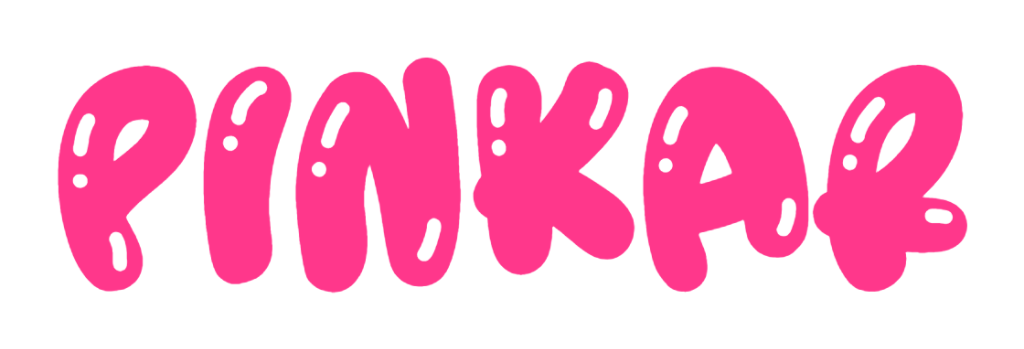
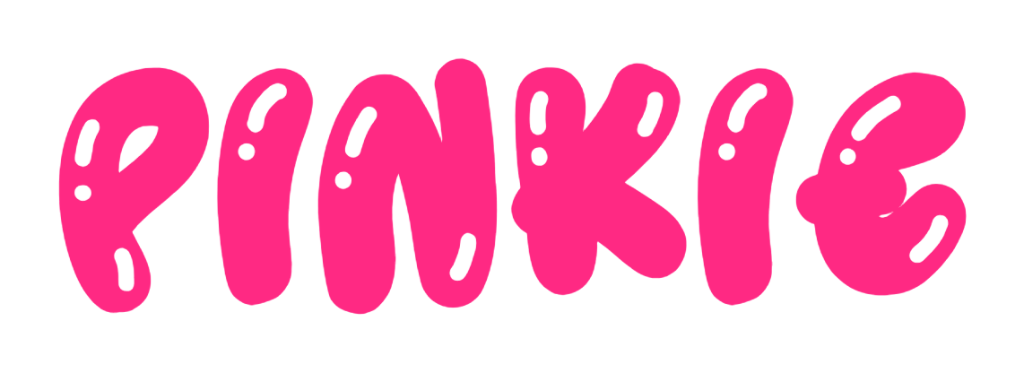
1

diff --git a/index.html b/index.html
@@ -3,11 +3,11 @@
 <head>
     <meta charset="utf-8"/>
     <meta http-equiv="Content-Type" content="text/html; charset=utf-8"/>
-    <meta name="viewport" content="width=device-width, initial-scale=1.0"/> <!--metatextblock--> <title>$PINKAR</title>
-    <meta name="description" content="$PINKAR"/>
+    <meta name="viewport" content="width=device-width, initial-scale=1.0"/> <!--metatextblock--> <title>$PINKIE</title>
+    <meta name="description" content="$PINKIE"/>
     <meta property="og:url" content="#"/>
-    <meta property="og:title" content="$PINKAR"/>
-    <meta property="og:description" content="$PINKAR"/>
+    <meta property="og:title" content="$PINKIE"/>
+    <meta property="og:description" content="$PINKIE"/>
     <meta property="og:type" content="website"/>
     <link rel="canonical" href="#"> <!--/metatextblock-->
     <meta name="format-detection" content="telephone=no"/>
@@ -134,7 +134,7 @@ document.addEventListener('DOMContentLoaded',t_setvisRecs);}})();
                      data-animate-sbs-opts="[{'ti':0,'mx':0,'my':0,'sx':1,'sy':1,'op':1,'ro':0,'bl':'0','ea':'','dt':0},{'ti':0,'mx':0,'my':0,'sx':1,'sy':1,'op':0,'ro':0,'bl':'0','ea':'','dt':0},{'ti':0,'mx':0,'my':0,'sx':1,'sy':1,'op':1,'ro':0,'bl':'0','ea':'','dt':0}]"
                      data-field-top-res-320-value="12" data-field-left-res-320-value="-24"
                      data-field-height-res-320-value="35" data-field-width-res-320-value="363">
-                    <div class='tn-atom'>CA - oCvzCdukjTATZQy1frHVsToh1tXPSfbT4WXth6Jpump</div>
+                    <div class='tn-atom'>CA - bcd5ov8pFY1VB2dGN72dZjuEgwzmz4AW2M4nFSkpump</div>
                 </div>
             </div>
         </div>
@@ -213,7 +213,7 @@ document.addEventListener('DOMContentLoaded',t_setvisRecs);}})();
                      data-animate-sbs-opts="[{'mx':0,'my':0,'sx':1,'sy':1,'op':1,'ro':0,'ti':0,'ea':'0','dt':0},{'mx':6,'my':2,'sx':1,'sy':1,'op':1,'ro':0,'ti':300,'ea':'0','dt':0}]"
                      data-field-filewidth-value="121" data-field-fileheight-value="309"
                      data-field-top-res-320-value="280" data-field-left-res-320-value="271"
-                     data-field-width-res-320-value="49"><a class='tn-atom' href="https://t.me/pinkarclub"> <img
+                     data-field-width-res-320-value="49"><a class='tn-atom' href="https://t.me/pinkiesolana"> <img
                         class='tn-atom__img t-img'
                         data-original='https://static.tildacdn.one/tild3038-3439-4363-b061-386666626138/__-07.svg'
                         alt='' imgfield='tn_img_1727151381364'/> </a></div>
@@ -227,7 +227,7 @@ document.addEventListener('DOMContentLoaded',t_setvisRecs);}})();
                      data-field-filewidth-value="159" data-field-fileheight-value="280"
                      data-field-top-res-320-value="292" data-field-left-res-320-value="68"
                      data-field-width-res-320-value="64"><a class='tn-atom'
-                                                            href="https://pump.fun/oCvzCdukjTATZQy1frHVsToh1tXPSfbT4WXth6Jpump"
+                                                            href="https://pump.fun/bcd5ov8pFY1VB2dGN72dZjuEgwzmz4AW2M4nFSkpump"
                                                             target="_blank"> <img class='tn-atom__img t-img'
                                                                                   data-original='./static.tildacdn.one/tild3337-3130-4366-a263-376566303136/__-04.svg'
                                                                                   alt=''
@@ -258,7 +258,7 @@ document.addEventListener('DOMContentLoaded',t_setvisRecs);}})();
                      data-animate-sbs-opts="[{'mx':0,'my':0,'sx':1,'sy':1,'op':1,'ro':0,'ti':0,'ea':'0','dt':0},{'mx':6,'my':2,'sx':1,'sy':1,'op':1,'ro':0,'ti':300,'ea':'0','dt':0}]"
                      data-field-filewidth-value="135" data-field-fileheight-value="356"
                      data-field-top-res-320-value="259" data-field-left-res-320-value="200"
-                     data-field-width-res-320-value="55"><a class='tn-atom' href="https://x.com/pinkarclub"
+                     data-field-width-res-320-value="55"><a class='tn-atom' href="https://x.com/pinkiesolana"
                                                             target="_blank"> <img class='tn-atom__img t-img'
                                                                                   data-original='https://static.tildacdn.one/tild3436-6139-4662-b933-303162633764/__-06.svg'
                                                                                   alt=''
@@ -282,16 +282,16 @@ document.addEventListener('DOMContentLoaded',t_setvisRecs);}})();
                      data-animate-duration="2" data-animate-delay="0.1" data-animate-distance="100"
                      data-animate-mobile="y" data-field-top-res-320-value="1058" data-field-left-res-320-value="-18"
                      data-field-width-res-320-value="356">
-                    <div class='tn-atom' field='tn_text_1727184762584'>PEPE and PINKAR didn't know each other personally,
+                    <div class='tn-atom' field='tn_text_1727184762584'>PEPE and PINKIE didn't know each other personally,
                         but they had heard a lot about each other. But fate decided to bring them together. This is the
                         story of how an ordinary meeting in a bar, led to a very unusual business!<br><br>The story:<br>After
                         the second beer, the conversation turned to money and business, of course. Pepe knew that I was
                         into crypto, and I knew that only Pepe could take me and my hobby to the next level. That night,
                         I remembered his main thought and phrase “Memcoins are for people like us”. I had no idea that
-                        such a simple thought could lead me and him to a big project together - PINKAR. For a long time,
+                        such a simple thought could lead me and him to a big project together - PINKIE. For a long time,
                         we studied trends, charts, learned from the mistakes of others, did everything! To become one of
                         the best! For PEPE this project is a proof that he is good in all areas, for me it is a new
-                        life!<br><br>I invite everyone to get acquainted with our unique project - $PINKAR
+                        life!<br><br>I invite everyone to get acquainted with our unique project - $PINKIE
                     </div>
                 </div>
                 <div class='t396__elem tn-elem tn-elem__8013551231727382376860' data-elem-id='1727382376860'
@@ -654,8 +654,8 @@ document.addEventListener('DOMContentLoaded',t_setvisRecs);}})();
                      data-field-top-res-320-value="-24" data-field-left-res-320-value="90"
                      data-field-width-res-320-value="1258"
                      data-animate-sbs-opts-res-320="[{'mx':0,'my':0,'sx':1,'sy':1,'op':1,'ro':0,'ti':0,'dt':0},{'mx':-557,'my':0,'sx':1,'sy':1,'op':1,'ro':0,'ti':12000,'dt':0}]">
-                    <div class='tn-atom' field='tn_text_1726986932737'>$PINKAR $PINKAR $PINKAR $PINKAR
-                        $PINKAR $PINKAR $PINKAR $PINKAR $PINKAR $PINKAR $PINKAR $PINKAR $PINKAR $PINKAR
+                    <div class='tn-atom' field='tn_text_1726986932737'>$PINKIE $PINKIE $PINKIE $PINKIE
+                        $PINKIE $PINKIE $PINKIE $PINKIE $PINKIE $PINKIE $PINKIE $PINKIE $PINKIE $PINKIE
                     </div>
                 </div>
                 <div class='t396__elem tn-elem tn-elem__8013571741726986932735' data-elem-id='1726986932735'
@@ -673,7 +673,7 @@ document.addEventListener('DOMContentLoaded',t_setvisRecs);}})();
                      data-field-heightunits-value="" data-field-widthunits-value="px" data-animate-mobile="y"
                      data-field-top-res-320-value="-28" data-field-left-res-320-value="-36"
                      data-field-width-res-320-value="102">
-                    <div class='tn-atom' field='tn_text_1726986932733'>$PINKAR</div>
+                    <div class='tn-atom' field='tn_text_1726986932733'>$PINKIE</div>
                 </div>
             </div>
         </div>
@@ -879,7 +879,7 @@ document.addEventListener('DOMContentLoaded',t_setvisRecs);}})();
                      data-animate-duration="1" data-animate-distance="100" data-animate-mobile="y"
                      data-field-top-res-320-value="1064" data-field-left-res-320-value="-13"
                      data-field-width-res-320-value="237">
-                    <div class='tn-atom' field='tn_text_1726990151743'>SWITCH YOUR SOL<br>ON $PINKAR</div>
+                    <div class='tn-atom' field='tn_text_1726990151743'>SWITCH YOUR SOL<br>ON $PINKIE</div>
                 </div>
                 <div class='t396__elem tn-elem tn-elem__8013610331727242499553' data-elem-id='1727242499553'
                      data-elem-type='image' data-field-top-value="-175" data-field-left-value="3025"
@@ -965,7 +965,7 @@ document.addEventListener('DOMContentLoaded',t_setvisRecs);}})();
                      data-animate-sbs-opts="[{'ti':0,'mx':0,'my':0,'sx':1,'sy':1,'op':1,'ro':0,'bl':'0','ea':'','dt':0},{'ti':0,'mx':0,'my':0,'sx':1,'sy':1,'op':0,'ro':0,'bl':'0','ea':'','dt':0},{'ti':0,'mx':0,'my':0,'sx':1,'sy':1,'op':1,'ro':0,'bl':'0','ea':'','dt':0}]"
                      data-field-top-res-320-value="820" data-field-left-res-320-value="-24"
                      data-field-height-res-320-value="35" data-field-width-res-320-value="363">
-                    <div class='tn-atom'>CA - oCvzCdukjTATZQy1frHVsToh1tXPSfbT4WXth6Jpump</div>
+                    <div class='tn-atom'>CA - bcd5ov8pFY1VB2dGN72dZjuEgwzmz4AW2M4nFSkpump</div>
                 </div>
                 <div class='t396__elem tn-elem tn-elem__8013767601726992670973 ' data-elem-id='1726992670973'
                      data-elem-type='shape' data-field-top-value="468" data-field-left-value="28"
@@ -977,7 +977,7 @@ document.addEventListener('DOMContentLoaded',t_setvisRecs);}})();
                      data-animate-sbs-opts="[{'mx':0,'my':0,'sx':1,'sy':1,'op':1,'ro':0,'ti':0,'ea':'0','dt':0},{'mx':0,'my':0,'sx':1,'sy':1,'op':1,'ro':0,'ti':0,'ea':'0','dt':0},{'mx':0,'my':0,'sx':1.14,'sy':1.14,'op':1,'ro':0,'ti':500,'ea':'0','dt':0},{'mx':0,'my':0,'sx':1,'sy':1,'op':1,'ro':0,'ti':500,'ea':'0','dt':0}]"
                      data-field-top-res-320-value="268" data-field-left-res-320-value="25"
                      data-field-height-res-320-value="134" data-field-width-res-320-value="131"><a
-                        class='tn-atom t-bgimg' href="https://x.com/pinkarclub" target="_blank"
+                        class='tn-atom t-bgimg' href="https://x.com/pinkiesolana" target="_blank"
                         data-original="https://static.tildacdn.one/tild6136-6665-4639-b830-646562633633/facdd348-c5a7-440f-9.png"> </a>
                 </div>
                 <div class='t396__elem tn-elem tn-elem__8013767601726992670970 ' data-elem-id='1726992670970'
@@ -990,7 +990,7 @@ document.addEventListener('DOMContentLoaded',t_setvisRecs);}})();
                      data-animate-sbs-opts="[{'mx':0,'my':0,'sx':1,'sy':1,'op':1,'ro':0,'ti':0,'ea':'0','dt':0},{'mx':0,'my':0,'sx':1,'sy':1,'op':1,'ro':0,'ti':0,'ea':'0','dt':0},{'mx':0,'my':0,'sx':1.12,'sy':1.12,'op':1,'ro':0,'ti':600,'ea':'0','dt':0},{'mx':0,'my':0,'sx':1,'sy':1,'op':1,'ro':0,'ti':600,'ea':'0','dt':0}]"
                      data-field-top-res-320-value="268" data-field-left-res-320-value="171"
                      data-field-height-res-320-value="117" data-field-width-res-320-value="116"><a
-                        class='tn-atom t-bgimg' href="https://t.me/pinkarclub" target="_blank"
+                        class='tn-atom t-bgimg' href="https://t.me/pinkiesolana" target="_blank"
                         data-original="https://static.tildacdn.one/tild3532-3539-4361-a263-653530313564/193209b4-fd67-4be4-8.png"> </a>
                 </div>
                 <div class='t396__elem tn-elem tn-elem__8013767601727185204038' data-elem-id='1727185204038'
@@ -1013,8 +1013,8 @@ document.addEventListener('DOMContentLoaded',t_setvisRecs);}})();
                      data-field-top-res-320-value="-33" data-field-left-res-320-value="90"
                      data-field-width-res-320-value="1258"
                      data-animate-sbs-opts-res-320="[{'mx':0,'my':0,'sx':1,'sy':1,'op':1,'ro':0,'ti':0,'dt':0},{'mx':-557,'my':0,'sx':1,'sy':1,'op':1,'ro':0,'ti':12000,'dt':0}]">
-                    <div class='tn-atom' field='tn_text_1727185204036'>$PINKAR $PINKAR $PINKAR $PINKAR
-                        $PINKAR $PINKAR $PINKAR $PINKAR $PINKAR $PINKAR $PINKAR $PINKAR $PINKAR $PINKAR
+                    <div class='tn-atom' field='tn_text_1727185204036'>$PINKIE $PINKIE $PINKIE $PINKIE
+                        $PINKIE $PINKIE $PINKIE $PINKIE $PINKIE $PINKIE $PINKIE $PINKIE $PINKIE $PINKIE
                     </div>
                 </div>
                 <div class='t396__elem tn-elem tn-elem__8013767601727185204034' data-elem-id='1727185204034'
@@ -1032,7 +1032,7 @@ document.addEventListener('DOMContentLoaded',t_setvisRecs);}})();
                      data-field-heightunits-value="" data-field-widthunits-value="px" data-animate-mobile="y"
                      data-field-top-res-320-value="-37" data-field-left-res-320-value="-36"
                      data-field-width-res-320-value="102">
-                    <div class='tn-atom' field='tn_text_1727185204031'>$PINKAR</div>
+                    <div class='tn-atom' field='tn_text_1727185204031'>$PINKIE</div>
                 </div>
                 <div class='t396__elem tn-elem tn-elem__8013767601727185437316 t-animate' data-elem-id='1727185437316'
                      data-elem-type='text' data-field-top-value="760" data-field-left-value="380"
@@ -1068,7 +1068,7 @@ document.addEventListener('DOMContentLoaded',t_setvisRecs);}})();
                      data-field-top-res-320-value="661" data-field-left-res-320-value="199"
                      data-field-height-res-320-value="112" data-field-width-res-320-value="111"><a
                         class='tn-atom t-bgimg'
-                        href="https://pump.fun/oCvzCdukjTATZQy1frHVsToh1tXPSfbT4WXth6Jpump"
+                        href="https://pump.fun/bcd5ov8pFY1VB2dGN72dZjuEgwzmz4AW2M4nFSkpump"
                         target="_blank"
                         data-original="./static.tildacdn.one/tild6562-3066-4434-a632-643834316663/ee07b46e-fe46-4043-a.png"> </a>
                 </div>
